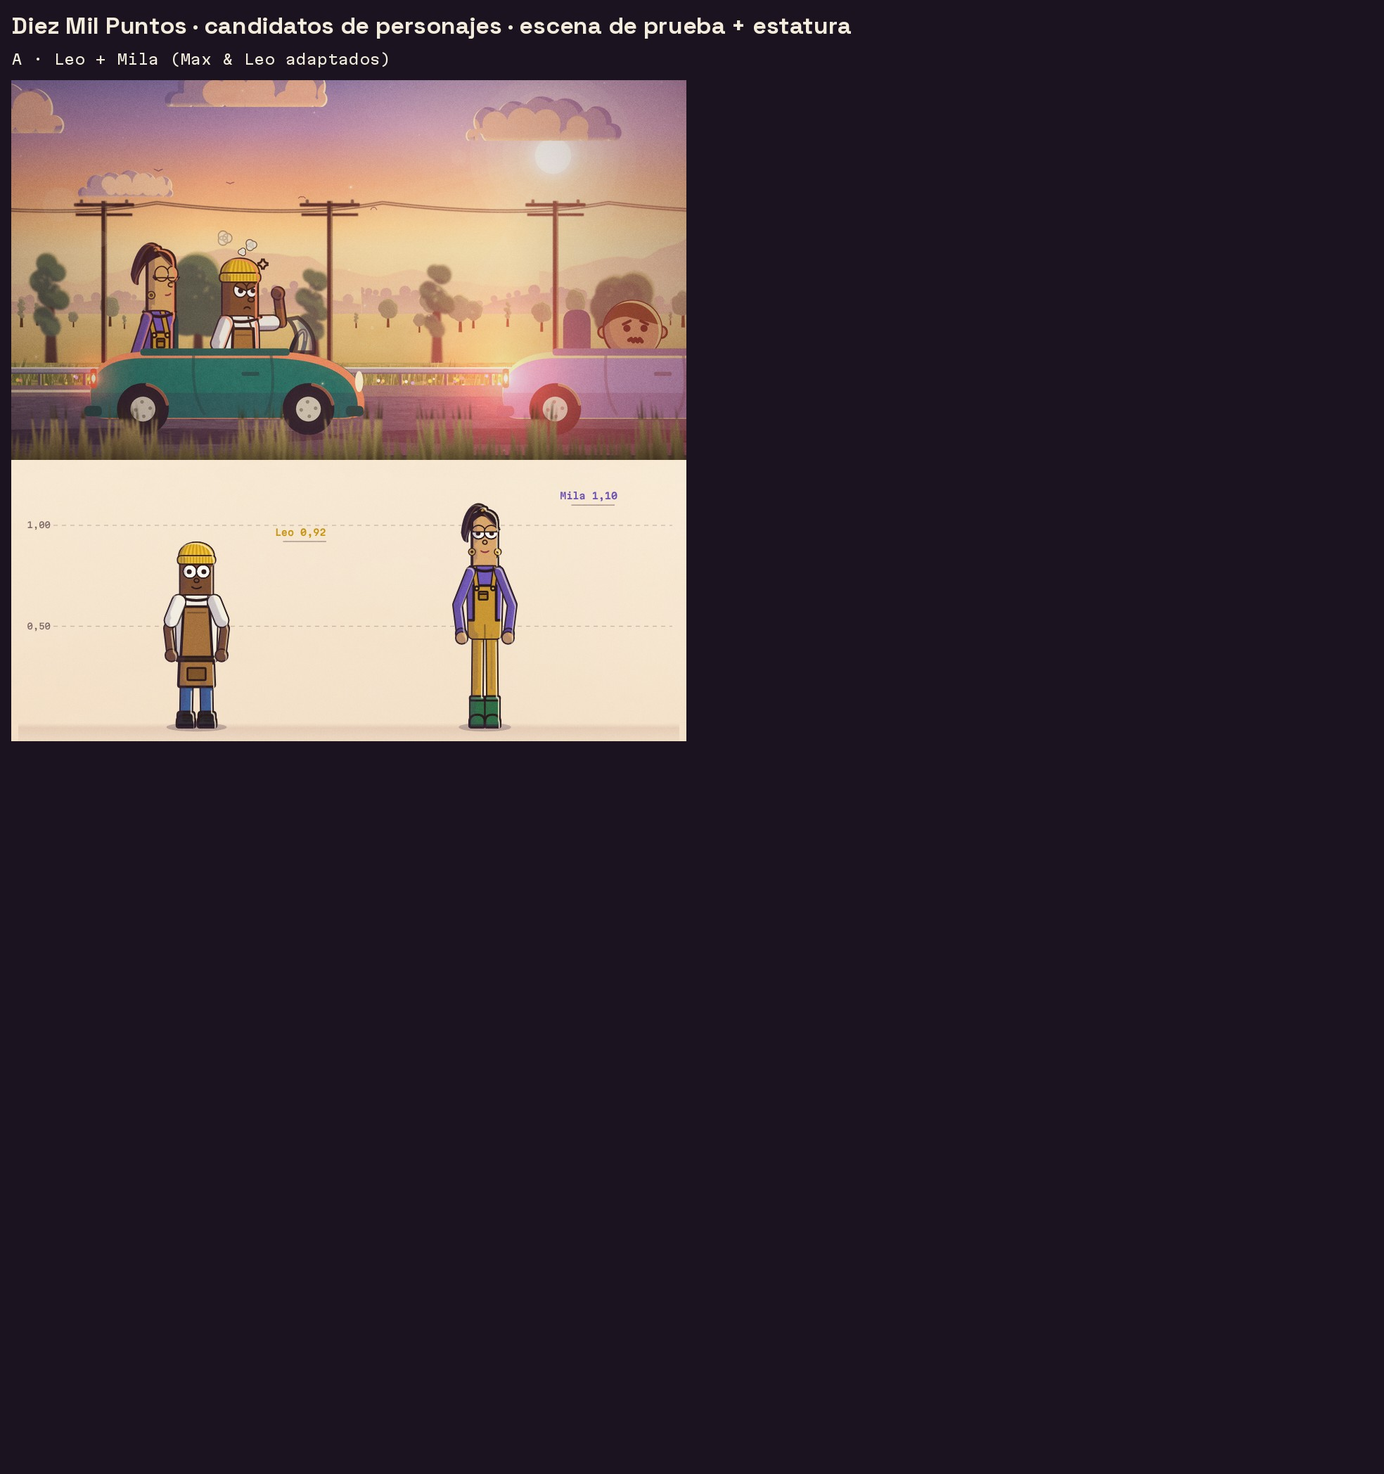
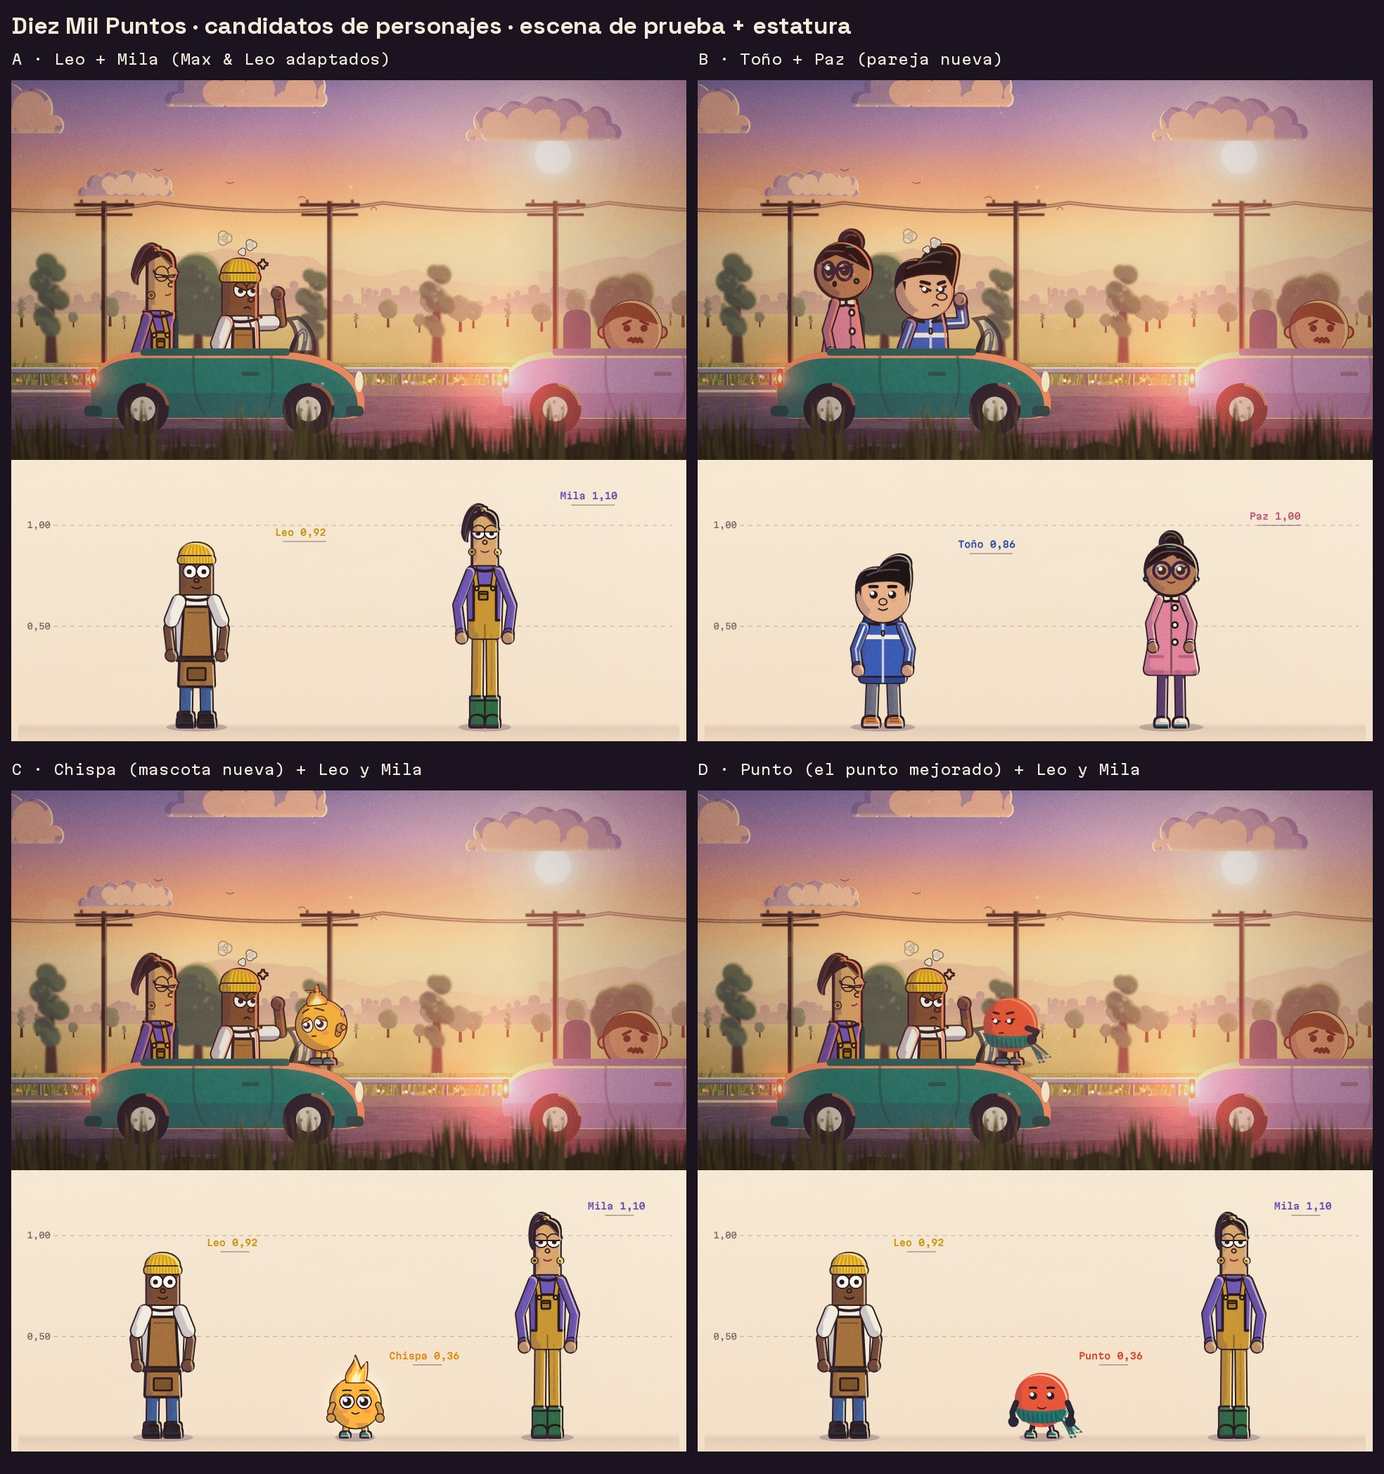
newchannel art: character candidates A, A2, B, C, D boards + test scenes + overview (first full pass)
Claude-Session: https://claude.ai/code/session_01Xa8YPWmmU68CUYj3YXfuu9

diff --git a/newchannel/art/lib/cast_specs.js b/newchannel/art/lib/cast_specs.js
@@ -153,19 +153,21 @@
   // ---------------------------------------------------------------- LIA (Leo as a woman) for A2
   const LIA = Object.assign({}, LEO, { name: 'Lía', phase: 1.4,
     face: Object.assign({}, LEO.face, { lashes: true, lip: '#5a1f2a' }),
-    hairBack(c, H) { // two short braids from under the beanie
-      const hw = H.hw, sw = Math.sin(H.t * 2.2) * 0.006;
+    hairBack: null,
+    braids(c, H) { // two braids from under the beanie, hanging to the shoulders (they swing a little)
+      const hw = H.hw, sw = Math.sin(H.t * 2.2) * 0.005;
       const sides = H.fs < 0.2 ? [-1, 1] : [-H.faceDir];
       for (const sg of sides) {
-        const x0 = H.fs < 0.2 ? sg * hw * 0.95 : -H.faceDir * hw * (0.95 - 0.4 * H.fs), y0 = -H.hh + 0.1;
-        for (let k = 0; k < 4; k++) { const x = x0 + sg * 0.006 * (H.fs < 0.2 ? 1 : 0) + sw * k * 0.5, y = y0 + 0.012 + k * 0.024;
-          c.fillStyle = '#1e1414'; c.strokeStyle = INK; c.lineWidth = H.lw * 1.6; K.ellipse(c, x, y, 0.014, 0.016); c.fill(); c.stroke(); }
-        const x = x0 + sw * 2, y = y0 + 0.012 + 4 * 0.024 - 0.006;
-        c.fillStyle = BEANIE; K.ellipse(c, x, y, 0.011, 0.007); c.fill(); c.stroke();
-        c.fillStyle = '#1e1414'; K.ellipse(c, x, y + 0.016, 0.009, 0.013); c.fill(); c.stroke();
+        const x0 = H.fs < 0.2 ? sg * hw * 1.02 : -H.faceDir * hw * (1.0 - 0.35 * H.fs), y0 = -H.hh + 0.085;
+        c.fillStyle = '#1e1414'; c.strokeStyle = INK; c.lineWidth = H.lw * 1.6;
+        for (let k = 0; k < 5; k++) { const x = x0 + sg * 0.004 + sw * k * 0.6, y = y0 + 0.015 + k * 0.026; K.ellipse(c, x, y, 0.017 - k * 0.0012, 0.018); c.fill(); c.stroke(); }
+        const x = x0 + sw * 3, y = y0 + 0.015 + 5 * 0.026 - 0.01;
+        c.fillStyle = BEANIE; K.ellipse(c, x, y, 0.013, 0.008); c.fill(); c.stroke();
+        c.fillStyle = '#1e1414'; c.beginPath(); c.moveTo(x - 0.01, y + 0.006); c.quadraticCurveTo(x, y + 0.035, x + 0.01, y + 0.006); c.closePath(); c.fill(); c.stroke();
       }
     },
-    headTop(c, H) { // gold hoops
+    headTop(c, H) { // braids + gold hoops
+      LIA.braids(c, H);
       const ey = H.F.mouthY - 0.012, ears = H.fs < 0.2 ? [-1, 1] : [-H.faceDir];
       for (const sg of ears) { const ex = H.fs < 0.2 ? sg * H.hw * 1.0 : -H.faceDir * H.hw * (1 - H.fs * 0.5);
         c.strokeStyle = INK; c.lineWidth = H.lw * 3.4; K.circle(c, ex, ey + 0.016, 0.013); c.stroke(); c.strokeStyle = '#f0c24a'; c.lineWidth = H.lw * 1.6; c.stroke(); }
@@ -176,11 +178,11 @@
   // ---------------------------------------------------------------- PAZ (B, patient + curious)
   const ROSE = '#e0849b', ROSE_D = '#b8607a', PLUM = '#5d3a6b', CREAM = '#f4ead6', PTEAL = '#2f8a80';
   function glasses(c, H, eyes, ey, rr) {
-    const lw = H.lw, R = rr * 2.15;
+    const lw = H.lw, R = rr * 1.85;
     c.strokeStyle = '#3b2440'; c.lineWidth = lw * 2.2;
     const pos = eyes.map(e => e[0]).sort((a, b) => a - b);
     for (const [x, side, far] of eyes) {
-      c.fillStyle = 'rgba(255,255,255,0.16)'; K.ellipse(c, x, ey, R * (far ? 0.72 : 1) * (1 - 0.25 * H.fs), R); c.fill(); c.stroke();
+      c.fillStyle = 'rgba(255,255,255,0.07)'; K.ellipse(c, x, ey, R * (far ? 0.72 : 1) * (1 - 0.25 * H.fs), R); c.fill(); c.stroke();
       c.strokeStyle = 'rgba(255,255,255,0.55)'; c.lineWidth = lw * 1.2; c.beginPath(); c.ellipse(x, ey, R * 0.72 * (far ? 0.72 : 1) * (1 - 0.25 * H.fs), R * 0.72, 0, -2.6, -1.9); c.stroke();
       c.strokeStyle = '#3b2440'; c.lineWidth = lw * 2.2;
     }
@@ -195,7 +197,7 @@
     arm: { upper: 0.13, fore: 0.12, w: 0.036, sleeve: ROSE, cuff: CREAM, hand: 0.025 },
     skin: '#b97c55', handColor: '#b97c55',
     boot: { h: 0.05, w: 0.034, foot: 0.05, toe: 0.042, back: 0.01, sole: 0.014, color: CREAM, soleColor: PTEAL },
-    face: { eyes: 'dot', eyeR: 0.019, eyeSep: 0.047, eyeY: 0.004, mouthY: 0.058, mouthW: 0.03, brows: 0.0075, browW: 1.2, browGap: 2.75,
+    face: { eyes: 'dot', eyeR: 0.022, eyeSep: 0.047, eyeY: 0.004, mouthY: 0.062, mouthW: 0.032, brows: 0.0105, browW: 1.15, browGap: 2.95,
       blush: 0.32, lashes: true, lip: '#6a2436', glasses, turnK: 0.5 },
     outfit(c, B) { // coat: placket, three big round buttons (dots), pockets
       const s = B.s, d = B.dir, px = B.tcx + d * s * B.wB * 0.45;
@@ -285,20 +287,28 @@
     legLen: 0.055, shoulder: 0.165, shoulderW: 0.112, hipW: 0.045, legW: 0.026, legColor: AMBER, legSplay: 0.006,
     torso: { top: 0.12, bot: 0.06, wTop: 0.02, wBot: 0.02, color: AMBER },
     head: { kind: 'circle', hw: 0.125, hh: 0.125, cy: 0.175 },
-    arm: { upper: 0.042, fore: 0.04, w: 0.026, sleeve: AMBER, hand: 0.021 }, limbRim: 0.35,
+    arm: { upper: 0.035, fore: 0.033, w: 0.021, sleeve: AMBER, hand: 0.019 }, limbRim: 0,
     skin: AMBER, handColor: AMBER, extraK: 0.9,
     boot: { h: 0.03, w: 0.024, foot: 0.03, toe: 0.026, back: 0.006, sole: 0.009, color: PTEAL, soleColor: CREAM },
     face: { eyes: 'googly', eyeR: 0.036, eyeSep: 0.042, eyeY: -0.008, pupil: 0.6, catch: 0.38, goofy: 0, mouthY: 0.05, mouthW: 0.032, blush: 0.45, blushColor: '#ff6f5a',
       lidColor: '#f29a26', grinW: 0.7, grinOpen: 0.14, turnK: 0.5, brows: 0.007, browGap: 1.5, browW: 0.8 },
     lidColor: '#f0a02a',
     glow: { color: '#ffb84a', r: 2.6, a: 0.55 },
-    hat(c, H) { // the flame tuft (sways)
-      const r = H.hw, sw = Math.sin(H.t * 4.2) * 0.012 + Math.sin(H.t * 9.3) * 0.004, fl = 1 + Math.sin(H.t * 7) * 0.05;
-      const bx = H.faceDir * H.fs * r * 0.15;
-      const flame = (sc, col) => { c.beginPath(); c.moveTo(bx - 0.034 * sc, -r * 0.93); c.bezierCurveTo(bx - 0.05 * sc, -r - 0.05 * sc, bx + sw - 0.01, -r - 0.07 * sc * fl, bx + sw * 1.6, -r - 0.105 * sc * fl);
-        c.bezierCurveTo(bx + sw + 0.012, -r - 0.06 * sc, bx + 0.05 * sc, -r - 0.04 * sc, bx + 0.034 * sc, -r * 0.93); c.closePath(); c.fillStyle = col; };
-      flame(1, '#ffe27a'); c.strokeStyle = INK; c.lineWidth = H.lw * 2; c.lineJoin = 'round'; c.stroke(); c.fill();
-      flame(0.55, '#fff6d0'); c.fill();
+    hat(c, H) { // the spark: a little two-tongued flame that acts (taller + redder when angry, small when worried)
+      const r = H.hw, ex = H.E, mood = ex.mouth === 'frown' || ex.mouth === 'flat' ? 1.25 : ex.sweat ? 0.75 : ex.mouth === 'o' ? 1.2 : 1;
+      const sw = Math.sin(H.t * 4.2) * 0.01 + Math.sin(H.t * 9.3) * 0.004, fl = (1 + Math.sin(H.t * 7) * 0.06) * mood;
+      const bx = H.faceDir * H.fs * r * 0.12, by = -r * 0.9, back = H.fs > 0.05 ? -H.faceDir : -1;
+      const tongue = (sc, col, line) => {
+        c.beginPath(); c.moveTo(bx - 0.045 * sc, by + 0.01);
+        c.bezierCurveTo(bx - 0.06 * sc, by - 0.05 * sc * fl, bx - 0.012 * sc + sw, by - 0.06 * sc * fl, bx + back * 0.012 * sc + sw * 1.5, by - 0.115 * sc * fl);   // main tongue tip
+        c.bezierCurveTo(bx + 0.012 * sc + sw, by - 0.075 * sc * fl, bx + 0.02 * sc, by - 0.06 * sc * fl, bx + 0.028 * sc, by - 0.05 * sc * fl);
+        c.quadraticCurveTo(bx + 0.04 * sc + sw * 0.5, by - 0.075 * sc * fl, bx - back * 0.05 * sc + sw, by - 0.085 * sc * fl);                                  // small tongue
+        c.bezierCurveTo(bx + 0.06 * sc, by - 0.04 * sc * fl, bx + 0.058 * sc, by - 0.01, bx + 0.045 * sc, by + 0.01);
+        c.closePath(); c.fillStyle = col;
+        if (line) { c.strokeStyle = INK; c.lineWidth = H.lw * 1.8; c.lineJoin = 'round'; c.stroke(); }
+        c.fill();
+      };
+      tongue(1, mood > 1.1 ? '#ff7a2a' : '#ff9b2f', true); tongue(0.72, '#ffcf4a'); tongue(0.42, '#fff3c2');
     },
   };
   C.define('chispa', CHISPA);
@@ -315,17 +325,21 @@
     face: { eyes: 'dot', eyeR: 0.019, eyeSep: 0.043, eyeY: -0.02, mouthY: 0.04, mouthW: 0.036, brows: 0.011, browW: 1.15, browGap: 2.1, blush: 0.0, turnK: 0.5,
       grinW: 0.75, grinOpen: 0.14 },
     lidColor: '#d84a32',
-    headTop(c, H) { // teal knit scarf around the bottom of the disc, tail flutters
-      const r = H.hw, y = r * 0.62, fl = Math.sin(H.t * 5) * 0.012, back = H.fs > 0.05 ? -H.faceDir : -1;
-      c.save(); K.circle(c, 0, 0, r * 1.02); c.clip();
-      c.fillStyle = '#23746C'; c.beginPath(); c.moveTo(-r * 1.1, y - 0.01); c.quadraticCurveTo(0, y + 0.03, r * 1.1, y - 0.01); c.lineTo(r * 1.1, y + 0.05); c.quadraticCurveTo(0, y + 0.09, -r * 1.1, y + 0.05); c.closePath(); c.fill();
-      c.strokeStyle = '#1a5a54'; c.lineWidth = H.lw * 1.4; for (let i = -5; i <= 5; i++) { const x = i * r * 0.2; c.beginPath(); c.moveTo(x, y + 0.012 + Math.abs(x) * -0.05); c.lineTo(x + 0.006, y + 0.055 - Math.abs(x) * 0.08); c.stroke(); }
+    headTop(c, H) { // teal knit scarf wrapped round the lower disc, knot on the far-back side, two tails that flutter
+      const r = H.hw, y = r * 0.38, back = H.fs > 0.05 ? -H.faceDir : 1, fl = Math.sin(H.t * 5) * 0.01, fl2 = Math.sin(H.t * 5 + 1.3) * 0.01;
+      const TEAL = '#23746C', TEAL_D = '#185a53', lw = H.lw;
+      c.save(); K.circle(c, 0, 0, r * 1.06); c.clip();
+      const band = () => { c.beginPath(); c.moveTo(-r * 1.2, y - 0.02); c.quadraticCurveTo(0, y + 0.03, r * 1.2, y - 0.02); c.lineTo(r * 1.2, y + 0.04); c.quadraticCurveTo(0, y + 0.09, -r * 1.2, y + 0.04); c.closePath(); };
+      band(); c.fillStyle = TEAL; c.fill();
+      c.strokeStyle = TEAL_D; c.lineWidth = lw * 1.3; for (let i = -6; i <= 6; i++) { const x = i * r * 0.17; const yy = y + 0.005 + 0.025 * (1 - (x / r) * (x / r)); c.beginPath(); c.moveTo(x, yy - 0.012); c.lineTo(x + 0.004, yy + 0.032); c.stroke(); }
       c.restore();
-      // tail
-      const tx = back * r * 0.55, ty = y + 0.04;
-      c.fillStyle = '#23746C'; c.beginPath(); c.moveTo(tx - 0.018, ty - 0.01); c.quadraticCurveTo(tx + back * 0.03, ty + 0.03, tx + back * (0.075) , ty + 0.03 + fl);
-      c.lineTo(tx + back * 0.08, ty + 0.06 + fl); c.quadraticCurveTo(tx + back * 0.02, ty + 0.06, tx + 0.018 * back, ty + 0.0); c.closePath(); c.fill();
-      c.strokeStyle = '#f3ecdd'; c.lineWidth = H.lw * 1.6; for (const k of [0.6, 0.85]) { c.beginPath(); c.moveTo(tx + back * 0.075 * k, ty + 0.025 + fl * k); c.lineTo(tx + back * 0.08 * k, ty + 0.055 + fl * k); c.stroke(); }
+      // knot + tails on the side
+      const kx = back * r * 0.72, ky = y + 0.03;
+      c.fillStyle = TEAL;
+      const tail = (dx, len, f) => { c.beginPath(); c.moveTo(kx - 0.016, ky); c.quadraticCurveTo(kx + back * dx * 0.5, ky + len * 0.5, kx + back * dx + f, ky + len); c.lineTo(kx + back * (dx + 0.03) + f, ky + len - 0.006); c.quadraticCurveTo(kx + back * (dx * 0.5 + 0.025), ky + len * 0.45, kx + 0.016, ky); c.closePath(); c.fill();
+        c.strokeStyle = '#f3ecdd'; c.lineWidth = lw * 1.4; c.beginPath(); c.moveTo(kx + back * dx * 0.85 + f, ky + len * 0.86); c.lineTo(kx + back * (dx * 0.85 + 0.028) + f, ky + len * 0.84); c.stroke(); };
+      tail(0.05, 0.11, fl); tail(0.085, 0.085, fl2);
+      c.fillStyle = TEAL_D; K.circle(c, kx, ky, 0.02); c.fill(); c.fillStyle = TEAL; K.circle(c, kx - 0.003, ky - 0.003, 0.016); c.fill();
     },
   };
   C.define('punto', PUNTO);

diff --git a/newchannel/art/scenes/cast_board.js b/newchannel/art/scenes/cast_board.js
@@ -23,9 +23,9 @@
       line: 'Bajito y redondo, enérgico, se enoja rápido y se le pasa rápido.', sw: [['chamarra', '#3a5bb5'], ['franja', '#f4ecdc'], ['pantalón', '#6f7280'], ['tenis', '#f08a3c'], ['piel', '#e7b089'], ['pelo', '#1d1416']] },
     paz: { name: 'Paz', alt: 'otros: Lupe, Ada', role: 'La paciente y curiosa: lentes redondos, mira atrás y entiende la ola.',
       line: 'Alta y serena, observa, anota y sonríe antes de explicar.', sw: [['abrigo', '#e0849b'], ['botones', '#f4ead6'], ['mallas', '#5d3a6b'], ['detalles', '#2f8a80'], ['piel', '#b97c55'], ['lentes', '#3b2440']] },
-    chispa: { name: 'Chispa', alt: 'otros: Tilde, Pepa', role: 'Compañera de cada episodio: es el punto de la «i» de Mil y reacciona a la simulación.',
+    chispa: { name: 'Chispa', alt: 'otros: Tilde, Pepa', role: 'Compañera de cada episodio y punto de la «i» de Mil.',
       line: 'Una chispa con patas: brilla, se asusta, aplaude y nunca se está quieta.', sw: [['cuerpo', '#ffb53d'], ['llama', '#ffe27a'], ['tenis', '#2f8a80'], ['mejillas', '#ff6f5a'], ['tinta', '#2a1a1e']] },
-    punto: { name: 'Punto', alt: 'otros: Don Punto, Puntito', role: 'La mascota original, mejorada: el punto de la «i» de Mil, con cejas, bufanda y tenis.',
+    punto: { name: 'Punto', alt: 'otros: Don Punto, Puntito', role: 'La mascota original, mejorada; sigue siendo el punto de la «i».',
       line: 'El punto bermellón de siempre, ahora con cara de verdad.', sw: [['disco', '#E8553A'], ['bufanda', '#23746C'], ['tinta', '#1C2433'], ['suela', '#f4ead6']] },
   };
   const EXPR_ES = { neutral: 'neutral', happy: 'feliz', surprised: 'sorpresa', grumpy: 'gruñón', worried: 'preocupado', smug: 'pícaro' };
@@ -46,7 +46,8 @@
     };
     if (cfg.driver) {
       const d = cfg.driver, o = Object.assign({ view: 'q', dir: 1, pose: 'drive', expr: 'neutral', t, light, seated: true }, cfg.driverO || {});
-      const info = C.draw(ctx, d, sx + 0.22 * SC, seatY, u, o);
+      const lift = C.SPECS[d].mascot ? -0.36 * SC : 0;   // a mascot sits on a cushion so it reads above the door
+      const info = C.draw(ctx, d, sx + 0.22 * SC, seatY + lift, u, o);
       drawWheel(info, o.pose === 'drive');
       out.driver = info;
     }
@@ -140,12 +141,12 @@
     // 1 · turnaround
     panel(ctx, 16, 70, 1140, 440, 'giro · frente / 3/4 / perfil');
     const hmax = Math.max(...ids.map(i => C.SPECS[i].h));
-    const gy1 = 482, uT = (duo ? 345 : 330) / hmax;
+    const gy1 = 474, uT = (duo ? 350 : 330) / hmax;
     ground(ctx, 30, 1140, gy1);
     ids.forEach((id, k) => {
       const xs = duo ? [130 + k * 560, 290 + k * 560, 445 + k * 560] : [250, 590, 920];
       ['front', 'q', 'side'].forEach((v, j) => C.draw(ctx, id, xs[j], gy1, uT, { view: v, t: t + j * 0.7 + k, expr: 'neutral', light, shadow: 0.28 }));
-      label(ctx, INFO[id].name, duo ? xs[1] : xs[1], 106, { font: '700 24px "Space Grotesk"', color: SIG[id] });
+      label(ctx, INFO[id].name, xs[1], 503, { font: '700 22px "Space Grotesk"', color: SIG[id] });
     });
 
     // 2 · the test scene (rendered separately, same for all candidates)
@@ -179,15 +180,17 @@
     panel(ctx, 1170, 522, 734, duo ? 290 : 160, 'expresiones');
     ids.forEach((id, k) => {
       const S = C.SPECS[id];
-      const cellW = 118, cellH = duo ? 128 : 120, top = 550 + k * (cellH + 4);
-      const uE = (S.mascot ? 92 : 92) / (2 * (S.head.hh + (S.head.kind === 'circle' ? 0.03 : 0)));
+      const cellW = 118, cellH = duo ? 128 : 136, top = 550 + k * (cellH + 4);
+      const hs = S.head.hh * 2 + (S.head.kind === 'circle' ? 0.05 : 0.02);
+      const uE = (duo ? 84 : 92) / hs;
       ex.forEach((e, j) => {
         const cx = 1182 + j * cellW + cellW / 2;
         ctx.save(); K.rrect(ctx, cx - cellW / 2 + 3, top, cellW - 6, cellH - 4, 10); ctx.fillStyle = 'rgba(255,252,246,0.6)'; ctx.fill(); ctx.clip();
-        const hy = top + cellH * 0.52;
-        C.draw(ctx, id, cx, hy + S.head.cy * uE, uE, { view: 'front', expr: e, t: t + j, light, extras: e === 'grumpy' ? [] : [] });
+        const hy = top + (duo ? 56 : 62) + (S.head.kind === 'circle' ? 6 : 0);
+        C.draw(ctx, id, cx, hy + S.head.cy * uE, uE, { view: 'front', expr: e, t: t + j, light });
+        ctx.fillStyle = 'rgba(255,250,240,0.92)'; K.rrect(ctx, cx - 50, top + cellH - 27, 100, 20, 9); ctx.fill();
         ctx.restore();
-        label(ctx, EXPR_ES[e], cx, top + cellH - 10, { font: '600 12px "Martian Mono"' });
+        label(ctx, EXPR_ES[e], cx, top + cellH - 12, { font: '600 12px "Martian Mono"' });
       });
     });
     if (!duo) wordmarkPanel(ctx, ids[0], 1170, 690, 734, 122, t);
@@ -217,7 +220,7 @@
     K.type.draw(ctx, lay, x0, y0, { color: '#f6ecd8', shadow: '#160b22', shadowAlpha: 0.7, rim: '#ffe6b0', rimAlpha: 0.9 });
     K.type.dot(ctx, lay, lay.tittles[0], x0, y0, { color: '#f6ecd8' });
     const tm = lay.tittles[1], S = C.SPECS[id];
-    const u = (tm.r * 2.6) / (2 * S.head.hw);
+    const u = (tm.r * 3.3) / (2 * S.head.hw);
     C.draw(ctx, id, x0 + tm.x, y0 + tm.y + (S.head.cy) * u - S.head.hw * u * 0.05, u, { view: 'front', expr: 'happy', pose: 'cheer', t, light: { ang: -1.4, rim: '#ffe6b0', rimA: 0.9, rimW: 0.01, shade: '#2a1838', shadeA: 0.3, shadeW: 0.05, tex: 0.2 }, glow: 0.8 });
     ctx.restore();
     label(ctx, 'EL PUNTO DE LA «i»', x + 16, y + 24, { align: 'left', color: 'rgba(255,236,210,0.85)', font: '600 13px "Martian Mono"' });
@@ -271,7 +274,7 @@
         after: CD.car.mascot ? (c, cx, gy, SC, st) => {
           const light = Object.assign({}, C.LIGHT.golden, { rim: st.rim });
           const mO = CD.car.mascot === 'chispa' ? { expr: 'worried', pose: 'shrug', view: 'q', dir: -1 } : { expr: 'annoyed', pose: 'hips', view: 'q', dir: -1 };
-          C.dashMascot(c, cx + 0.66 * SC, gy - 1.03 * SC, SC, { mascot: CD.car.mascot, t: st.tau, light, mascotO: mO, mu: 2.4 * SC });
+          C.dashMascot(c, cx + 1.22 * SC, gy - 1.0 * SC, SC, { mascot: CD.car.mascot, t: st.tau, light, mascotO: mO, mu: 2.5 * SC });
         } : null,
       });
     },

diff --git a/newchannel/art/scenes/mascot_closeup.js b/newchannel/art/scenes/mascot_closeup.js
@@ -94,14 +94,17 @@
     // (no see-through reeds), with a few taller clumps and lit tips
     const fore = tileLayer((c, t) => {
       const r = K.rng(121), base = K.H + 40;
-      c.fillStyle = '#2f2a22'; c.fillRect(0, base - 70, TW, 72);
       const blade = (x, hgt, w, lean, col) => { c.fillStyle = col; c.beginPath(); c.moveTo(x - w, base); c.quadraticCurveTo(x - w * 0.3 + lean * 0.4, base - hgt * 0.6, x + lean, base - hgt); c.quadraticCurveTo(x + w * 0.3 + lean * 0.4, base - hgt * 0.6, x + w, base); c.closePath(); c.fill(); };
-      for (let x = -20; x < TW + 20; x += 4 + r() * 5) blade(x, 95 + r() * 50, 7 + r() * 6, (r() - 0.4) * 24, K.mix('#2c2a20', '#4a4a2c', r()));
+      // solid bank with a wavy top (fully opaque: nothing shows through)
+      c.fillStyle = '#2a261e'; c.beginPath(); c.moveTo(0, base);
+      for (let x = 0; x <= TW; x += 20) c.lineTo(x, base - 92 - 10 * Math.sin(x * 0.013) - 8 * Math.sin(x * 0.041 + 1));
+      c.lineTo(TW, base); c.closePath(); c.fill();
+      for (let x = -20; x < TW + 20; x += 3 + r() * 4) blade(x, 110 + r() * 45, 7 + r() * 6, (r() - 0.4) * 22, K.mix('#24211a', '#3d3c26', r()));
       for (let k = 0; k < 9; k++) { const cx = (k + r() * 0.6) * (TW / 9);
-        for (let j = 0; j < 30; j++) blade(cx + (r() - 0.5) * 140, 140 + r() * 90, 6 + r() * 6, (r() - 0.45) * 50, K.mix('#262419', '#545433', r())); }
-      // lit tips (back light)
-      c.globalCompositeOperation = 'source-atop'; const g = c.createLinearGradient(0, base - 160, 0, base - 30); g.addColorStop(0, K.rgba(P.rim, 0.55)); g.addColorStop(1, K.rgba(P.rim, 0));
-      c.fillStyle = g; c.fillRect(0, base - 170, TW, 150); c.globalCompositeOperation = 'source-over';
+        for (let j = 0; j < 34; j++) blade(cx + (r() - 0.5) * 130, 150 + r() * 80, 6 + r() * 6, (r() - 0.45) * 46, K.mix('#211e17', '#46452b', r())); }
+      // thin lit tips (back light), only the top of the tall blades
+      c.globalCompositeOperation = 'source-atop'; const g = c.createLinearGradient(0, base - 230, 0, base - 150); g.addColorStop(0, K.rgba(P.rim, 0.45)); g.addColorStop(1, K.rgba(P.rim, 0));
+      c.fillStyle = g; c.fillRect(0, base - 240, TW, 100); c.globalCompositeOperation = 'source-over';
     }, K.H + 40, 2.2);
     // clouds (drawn live so they drift); lit from the sun at (1480, 250)
     const clouds = [[260, 190, 560, 118, 1, 5], [1000, 120, 520, 104, 2, 4], [1760, 210, 470, 96, 3, 6], [640, 360, 300, 58, 4, 7], [2300, 330, 300, 60, 5, 6]].map(([x, y, w, h, seed, v]) => {

diff --git a/newchannel/art/lib/cast.js b/newchannel/art/lib/cast.js
@@ -124,12 +124,12 @@
   // lid 0 open .. 1 shut, low = lower lid, tilt +angry / -worried, eye scale, pupil scale, mouth kind, extras
   C.EXPR = {
     neutral:   { lid: 0.12, mouth: 'smile' },
-    happy:     { lid: 0.0, low: 0.12, mouth: 'grin', head: -0.06, brow: -0.016, noBias: 1, look: [0, -0.35] },
+    happy:     { lid: 0.0, low: 0.0, mouth: 'grin', head: -0.07, brow: -0.018, noBias: 1, look: [0, -0.55], grin: 1.45, eye: 1.06 },
     surprised: { lid: 0.0, eye: 1.2, pupil: 0.62, mouth: 'o', brow: -0.022, noBias: 1, lift: -0.006 },
     grumpy:    { lid: 0.42, tilt: 0.45, mouth: 'frown', brow: 0.01, browTilt: 1, noBias: 0.6 },
     annoyed:   { lid: 0.42, tilt: 0.3, mouth: 'flat', browTilt: 0.7 },
     worried:   { lid: 0.22, tilt: -0.4, mouth: 'wobble', pupil: 0.85, brow: -0.012, browTilt: -1, sweat: 1 },
-    smug:      { lid: 0.55, low: 0.18, mouth: 'smirk', look: [0.75, 0], browTilt: 0.2, browUp: 1 },
+    smug:      { lid: 0.48, low: 0.22, mouth: 'smirk', look: [0.8, 0], browTilt: 0.2, browUp: 1, noBias: 0.7, tilt: 0.12 },
     curious:   { lid: 0.02, eye: 1.08, mouth: 'smallo', look: [0.4, -0.5], brow: -0.016, noBias: 0.7 },
     talk:      { lid: 0.12, mouth: 'talk' },
   };
@@ -197,7 +197,7 @@
     };
     switch (kind) {
       case 'smile': c.beginPath(); c.moveTo(-w * 0.55, -w * 0.08); c.quadraticCurveTo(0, w * 0.32, w * 0.55, -w * 0.08); c.stroke(); break;
-      case 'grin': open(H.F.grinOpen ?? 0.12, H.F.grinW ?? 0.7); break;
+      case 'grin': open((H.F.grinOpen ?? 0.12) * (E.grin || 1), (H.F.grinW ?? 0.7) * Math.sqrt(E.grin || 1)); break;
       case 'talk': open(0.04 + H.talk * 0.14, 0.5); break;
       case 'o': c.fillStyle = '#3a1520'; K.ellipse(c, 0, w * 0.08, w * 0.2, w * 0.27); c.fill(); c.lineWidth = lw * 1.0; c.strokeStyle = INK; c.stroke(); break;
       case 'smallo': c.fillStyle = '#3a1520'; K.ellipse(c, w * 0.05, w * 0.05, w * 0.12, w * 0.15); c.fill(); c.lineWidth = lw * 1.4; c.strokeStyle = INK; c.stroke(); break;
